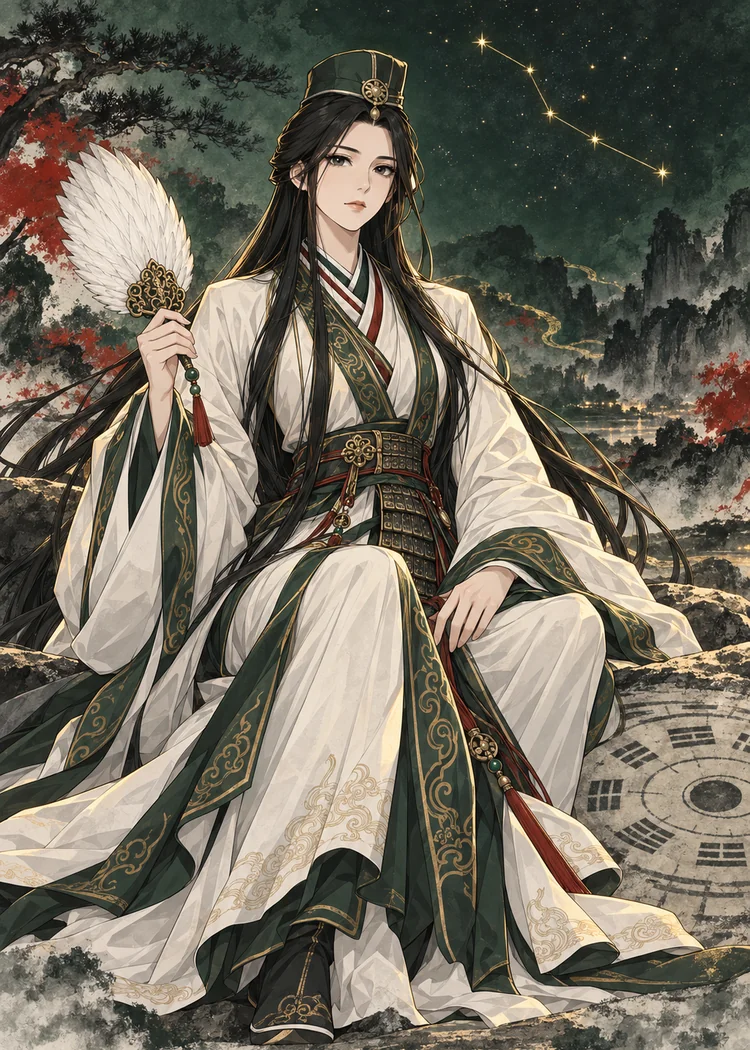
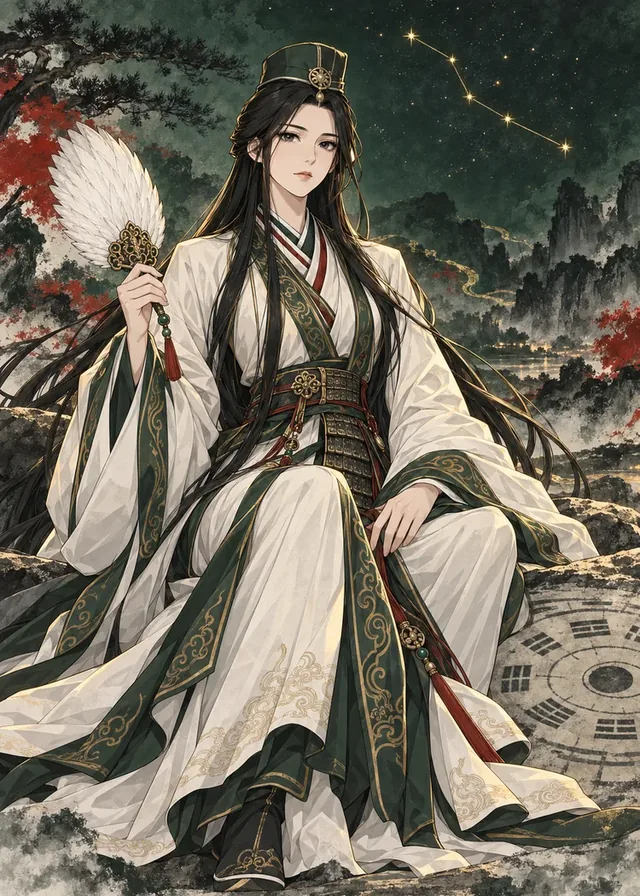
사이트 그림을 표시 크기에 맞춰 압축하고 첫 화면 전송량 줄이기

Changed region(s): [[0.2188, 0.2812, 0.25, 0.3125], [0.1875, 0.25, 0.2188, 0.2812]]

diff --git a/assets/slime-race/race.css b/assets/slime-race/race.css
@@ -23,7 +23,7 @@ a{color:#e6c98a}button,input{font:inherit}button{cursor:pointer}button:disabled{
 .sr-host{position:relative;isolation:isolate;width:110px;height:112px;flex:none}
 .sr-host::before{content:"";position:absolute;left:calc(50% - 7px);bottom:-20px;width:14px;height:29px;border-radius:3px;background:linear-gradient(90deg,#885730,#bd8c58 35%,#a37143 70%,#78502e);box-shadow:inset 1px 0 1px #d9ae77,2px 2px 2px #4a432e38;z-index:-2}
 .sr-host::after{content:"";position:absolute;left:13%;bottom:3px;width:74%;height:14px;border-radius:6px 5px 3px 3px;transform:rotate(-1deg);background:linear-gradient(#b48555,#80512f);box-shadow:inset 0 1px 1px #e0b47c,0 3px 3px #59452d4d;z-index:-1}
-.sr-art-plaque .sr-host::after{background:#9b6840 url('/assets/slime-race/art/clay/title-plaque.png') center 48%/180% 280% no-repeat}
+.sr-art-plaque .sr-host::after{background:#9b6840 url('/assets/slime-race/art/clay/title-plaque.webp') center 48%/180% 280% no-repeat}
 .sr-announcer img{width:110px;height:112px;object-fit:contain;flex:none;filter:drop-shadow(0 5px 3px #4d432640);align-self:end}
 .sr-speech{flex:1;min-width:0;padding:20px 13px;background:linear-gradient(#fffbea,#edd9b5);border-radius:32px;box-shadow:inset 0 2px 3px #fffef6,inset 0 -3px 5px #b59b713b,0 4px 3px #60513540;color:#62432c;font-size:18px;font-weight:400;text-align:center;line-height:1.3;overflow-wrap:break-word}
 .sr-speech::after{content:"";position:absolute;left:-9px;bottom:19px;width:16px;height:17px;background:#f6e8cb;transform:skewY(-30deg);border-radius:0 0 0 80%;z-index:-1}
@@ -35,11 +35,11 @@ a{color:#e6c98a}button,input{font:inherit}button{cursor:pointer}button:disabled{
 /* 9분할 테두리는 모서리의 조각·광택을 보존하고 가운데만 확장한다. */
 .sr-art-plaque .sr-title-sign,.sr-art-panel .sr-round,.sr-art-panel .sr-speech,.sr-art-button .sr-arena-controls button:not(.sr-primary),.sr-art-gold .sr-arena-controls .sr-primary{background:none;box-shadow:none}
 .sr-art-plaque .sr-title-sign::before,.sr-art-panel .sr-round::before,.sr-art-panel .sr-speech::before,.sr-art-button .sr-arena-controls button:not(.sr-primary)::before,.sr-art-gold .sr-arena-controls .sr-primary::before{content:"";position:absolute;inset:0;z-index:-1;pointer-events:none;border:20px solid transparent;border-image:var(--sr-art) var(--sr-slice,80) fill / var(--sr-border,20px) stretch}
-.sr-art-plaque .sr-title-sign::before{border:0;background:url('/assets/slime-race/art/clay/title-plaque.png') center/100% 100% no-repeat}
-.sr-title-sign{--sr-art:url('/assets/slime-race/art/clay/title-plaque.png');--sr-slice:50 125;--sr-border:20px 43px}
-.sr-round,.sr-speech{--sr-art:url('/assets/slime-race/art/clay/panel.png');--sr-slice:48;--sr-border:25px}
-.sr-arena-controls button{--sr-art:url('/assets/slime-race/art/clay/button.png');--sr-slice:36;--sr-border:22px}
-.sr-arena-controls .sr-primary{--sr-art:url('/assets/slime-race/art/clay/button-gold.png');--sr-slice:90 135;--sr-border:23px 35px}
+.sr-art-plaque .sr-title-sign::before{border:0;background:url('/assets/slime-race/art/clay/title-plaque.webp') center/100% 100% no-repeat}
+.sr-title-sign{--sr-art:url('/assets/slime-race/art/clay/title-plaque.webp');--sr-slice:50 125;--sr-border:20px 43px}
+.sr-round,.sr-speech{--sr-art:url('/assets/slime-race/art/clay/panel.webp');--sr-slice:48;--sr-border:25px}
+.sr-arena-controls button{--sr-art:url('/assets/slime-race/art/clay/button.webp');--sr-slice:36;--sr-border:22px}
+.sr-arena-controls .sr-primary{--sr-art:url('/assets/slime-race/art/clay/button-gold.webp');--sr-slice:90 135;--sr-border:23px 35px}
 .sr-feedback{position:absolute;z-index:2;bottom:84px;left:18px;right:18px;display:flex;justify-content:center;min-height:22px;pointer-events:none}
 .sr-feedback>*{pointer-events:auto}
 .sr-feedback .sr-message{margin:0!important;padding:4px 12px;background:#fff5dfed;color:#62432c;border-radius:12px;text-align:center;max-width:100%;line-height:1.4;box-shadow:0 2px 3px #4f4c2b26}
@@ -48,14 +48,14 @@ a{color:#e6c98a}button,input{font:inherit}button{cursor:pointer}button:disabled{
 .sr-feedback:has([data-public-error]:not([hidden])) [data-spectator-message]{display:none}
 .sr-result{position:absolute;isolation:isolate;top:174px;left:50%;transform:translateX(-50%);width:min(340px,86%);background:linear-gradient(#fff9e8,#ead5b2);border:0;border-radius:26px;text-align:center;padding:19px 23px;box-shadow:inset 0 2px 3px #fffef3,0 10px 24px #32452145;color:#65442d;z-index:1}
 .sr-art-panel .sr-result{background:none;box-shadow:0 10px 24px #32452135}
-.sr-art-panel .sr-result::before{content:"";position:absolute;inset:0;z-index:-1;border:24px solid transparent;border-image:url('/assets/slime-race/art/clay/panel.png') 48 fill / 24px stretch;pointer-events:none}
+.sr-art-panel .sr-result::before{content:"";position:absolute;inset:0;z-index:-1;border:24px solid transparent;border-image:url('/assets/slime-race/art/clay/panel.webp') 48 fill / 24px stretch;pointer-events:none}
 .sr-result h2{font-family:inherit;font-size:30px;font-weight:400;line-height:1.2;color:#654127;margin:6px 0!important;text-shadow:0 1px #fff7e3}
 .sr-result>small{display:block;font-size:13px;line-height:1.3;color:#87613e;letter-spacing:0}
 .sr-result p{font-size:14px;line-height:1.45}
 .sr-result ol{margin:10px 0 0;padding:8px 0 0;list-style:none;border-top:1px solid #bb99745c;display:flex;flex-wrap:wrap;justify-content:center;gap:3px 10px;font-size:13px;line-height:1.4}
 .sr-result button{position:relative;isolation:isolate;margin-top:10px;min-height:44px;border-radius:18px;padding:10px 22px;background:linear-gradient(#ffe59e,#edb94e);color:#68401e;font-family:inherit;font-size:15px;font-weight:400;line-height:1.4;box-shadow:inset 0 2px 2px #fff4c9,0 3px 3px #76523026}
 .sr-art-gold .sr-result button{background:none;box-shadow:none}
-.sr-art-gold .sr-result button::before{content:"";position:absolute;inset:0;z-index:-1;border:18px solid transparent;border-image:url('/assets/slime-race/art/clay/button-gold.png') 90 135 fill / 18px 27px stretch;pointer-events:none}
+.sr-art-gold .sr-result button::before{content:"";position:absolute;inset:0;z-index:-1;border:18px solid transparent;border-image:url('/assets/slime-race/art/clay/button-gold.webp') 90 135 fill / 18px 27px stretch;pointer-events:none}
 
 .sr-primary{border:0;border-radius:6px;background:#e6c98a;color:#271b2b;padding:12px 24px;min-height:46px;font-size:14px;font-weight:600;text-decoration:none;display:inline-flex;align-items:center;justify-content:center}.sr-text-button{background:none;border:0;padding:3px 0;color:#d7c098;text-decoration:underline;text-underline-offset:4px;font-size:12px;white-space:nowrap;min-height:32px}
 .gb-games{margin-top:30px}.gb-games-heading{display:flex;justify-content:space-between;align-items:center;gap:15px;margin-bottom:15px}.gb-games-heading h2{font-family:var(--font-display);font-size:23px;color:#f2dfb7;font-weight:500}.gb-games-heading span{font-size:12px;color:#b6a7c0}.gb-gamegrid{display:grid;grid-template-columns:1fr 1fr;gap:18px}.gb-game{position:relative;min-width:0;height:285px;border:1px solid #745740;border-radius:9px;overflow:hidden;background:#251e2c}.gb-game>img{position:absolute;inset:0;width:100%;height:100%;object-fit:cover}.gb-game::after{content:"";position:absolute;inset:0;background:linear-gradient(0deg,#0e0a16fa 1%,#15102055 55%,transparent);pointer-events:none}.gb-gamecopy{position:absolute;z-index:1;bottom:22px;left:23px;right:23px}.gb-gamecopy small{font-size:11px;color:#e6c98a;letter-spacing:.1em}.gb-gamecopy h3{font-family:var(--font-display);font-size:26px;color:#fff0d6;font-weight:600;margin:4px 0!important}.gb-gamecopy p{font-size:13px;color:#d7cbdc;padding-right:115px}.gb-gamecopy .gb-play{position:absolute;right:0;bottom:0;display:inline-flex;align-items:center;min-height:40px;background:#e6c98a;color:#261d2b;padding:8px 14px;border-radius:4px;text-decoration:none;font-size:12px}.gb-gamecover-link{position:absolute;inset:0;z-index:1}.gb-gamecopy{pointer-events:none}.gb-gamecopy a{pointer-events:auto}.gb-gamecover-link:focus-visible{outline-offset:-5px;outline-width:3px}.gb-foot{width:calc(100% - 64px);max-width:1116px;display:flex;align-items:center;justify-content:space-between;gap:16px;flex-wrap:wrap;margin:30px auto 0;padding:26px 0;border-top:1px solid #392a40;color:#9e90a9;font-size:12px}.gb-foot strong{font-family:var(--font-brand);font-size:12px;font-weight:400;letter-spacing:.14em;color:#c5b19b}.gb-foot a{color:#cbb89e;text-decoration:none}.gb-foot-links{display:flex;gap:16px;flex-wrap:wrap}.gb-copyright{flex-basis:100%;font-size:11px}

diff --git a/account/index.html b/account/index.html
@@ -84,7 +84,7 @@
 </section>
 <section id="member-panel" class="panel" aria-labelledby="member-title" hidden>
 <p class="step-label">내 계정</p><h2 id="member-title" tabindex="-1">반가워요</h2><p id="member-email" class="description"></p><p id="member-permission" class="notice"></p><section class="grain-wallet" aria-labelledby="grain-title" aria-busy="false" id="grain-wallet">
-<div class="grain-heading"><img src="/assets/currency/grain.png" width="48" height="48" alt=""><h3 id="grain-title">내 그레인</h3></div>
+<div class="grain-heading"><img src="/assets/currency/grain.webp" width="48" height="48" alt=""><h3 id="grain-title">내 그레인</h3></div>
 <p id="grain-status" class="description" role="status">잔액을 불러오고 있어요.</p>
 <div id="grain-content" hidden><p class="grain-balance"><strong id="grain-balance"></strong> <span>그레인</span></p><p class="description small">그레인은 이벤트와 커뮤니티 활동으로만 받는 무료 화폐예요. 돈으로 사거나 현금·상품으로 바꿀 수 없고, 다른 회원에게 줄 수 없어요.</p><p id="grain-attendance" class="notice success" role="status" hidden></p><p id="grain-eligibility" class="notice" hidden></p><button id="grain-verify" class="text-button" type="button" hidden>인증 메일 다시 받기</button><p class="grain-pending-total">적립 예정 <strong id="grain-pending-total"></strong> 그레인</p><p id="grain-pending-description" class="description small">글·댓글은 유지 조건을 충족하면 확정돼요. 확정 전 삭제·숨김되거나 보상 자격이 바뀌면 지급되지 않을 수 있어요.</p><ul id="grain-pending" class="grain-entries"></ul><p id="grain-pending-empty" class="description" hidden>적립 예정인 보상이 없어요.</p><h4>이용 내역</h4><ul id="grain-entries" class="grain-entries"></ul><p id="grain-empty" class="description" hidden>아직 이용 내역이 없어요.</p></div>
 <p id="grain-error" class="form-message" role="alert" hidden></p><button id="grain-retry" class="text-button" type="button" hidden>그레인 다시 불러오기</button>
@@ -96,7 +96,7 @@
 <div class="guest-return"><span>가입은 나중에 해도 괜찮아요.</span><a id="guest-link" href="https://gracekingames.com/">게임 둘러보기 <span aria-hidden="true">↗</span></a></div>
 </div>
 <section id="grain-policy" class="grain-policy" aria-labelledby="grain-policy-title">
-<div class="grain-heading"><img src="/assets/currency/grain.png" width="48" height="48" alt=""><h2 id="grain-policy-title">그레인 받는 방법</h2></div>
+<div class="grain-heading"><img src="/assets/currency/grain.webp" width="48" height="48" alt=""><h2 id="grain-policy-title">그레인 받는 방법</h2></div>
 <p class="description">그레인은 이벤트와 커뮤니티 활동으로만 받는 무료 화폐예요. 돈으로 사거나 현금·상품으로 바꿀 수 없고, 다른 회원에게 줄 수 없어요.</p>
 <p id="grain-policy-status" class="description" role="status">받는 방법을 불러오고 있어요.</p>
 <div id="grain-policy-content" hidden>

diff --git a/assets/community/community.js b/assets/community/community.js
@@ -22,7 +22,7 @@
           ['선을 그려 길을 이어요', '슬라임이 지나갈 길을 선으로 만들어 주세요. 게임 화면에 나오는 안내를 보며 한 걸음씩 시작하면 돼요.'],
           ['막히거나 오류를 만났다면', '화면이 멈추거나 예상과 다르게 움직인다면 비공개 버그 제보로 알려 주세요. 이용한 기기와 브라우저, 문제가 생긴 화면과 상황을 함께 적어 주시면 확인에 도움이 돼요.']
         ] },
-        { id: 'feedback', date: '2026-10-15', cover: '/assets/slime-front.png', title: '문제 신고와 소감을 보내는 방법', excerpt: '플레이하다 만난 문제나 떠오른 생각을 편지로 받습니다.', sections: [
+        { id: 'feedback', date: '2026-10-15', cover: '/assets/slime-front.webp', title: '문제 신고와 소감을 보내는 방법', excerpt: '플레이하다 만난 문제나 떠오른 생각을 편지로 받습니다.', sections: [
           ['로그인한 계정으로 비공개 제보해요', '비공개 버그 제보에서 알려진 문제를 먼저 확인해 주세요. 로그인한 계정으로 제보하면 본인은 제보 목록과 처리 상태를 볼 수 있어요. 원문은 운영자만 확인해요.'],
           ['제보 전에 해 볼 것', '화면을 새로고침하고, 다른 브라우저에서도 같은 문제가 생기는지 살펴봐 주세요. 비공개 버그 제보의 알려진 문제도 확인해 주세요.'],
           ['문제 설명에 적을 칸', ['게임 이름: 슬라임 라인', '어느 화면: 문제가 생긴 화면과 주소', '무엇을 했는지: 문제가 반복되는 순서', '기대한 결과와 실제 결과: 각각 어떻게 달랐는지', '기기와 브라우저: 기기 이름, 운영체제, 브라우저 이름과 버전']],
@@ -315,7 +315,7 @@
   titleArt.width = gameId === 'slimeline' ? 2171 : 2048;
   titleArt.height = gameId === 'slimeline' ? 724 : 768;
   titleArt.alt = game.name;
-  titleArt.src = `/assets/${gameId}/title.png`;
+  titleArt.src = `/assets/${gameId}/title.webp`;
   titleArt.hidden = false;
   byId('hero-links').hidden = false;
   byId('hero-home').href = studioPath(game.home);
@@ -451,7 +451,7 @@
     const emptyArt = byId('empty-art');
     emptyArt.hidden = !isBoardEmpty;
     if (isBoardEmpty) {
-      if (gameId === 'slimeline') { byId('empty-image').src = '/assets/slime-front.png'; byId('empty-image').hidden = false; }
+      if (gameId === 'slimeline') { byId('empty-image').src = '/assets/slime-front.webp'; byId('empty-image').hidden = false; }
       else {
         emptyArt.className = `empty-art tile-${boardId}`;
       }

diff --git a/index.html b/index.html
@@ -30,14 +30,14 @@
 <header class="gb-nav">
 <a class="gb-logo" href="#top" aria-label="그레이스킨게임즈 처음으로"><img src="/assets/favicon.svg" width="36" height="36" alt="">GRACEKIN</a>
 <nav class="gb-navlinks" aria-label="주 메뉴"><a href="#games">모든 게임</a><a href="#letter">의견 보내기</a></nav>
-<div class="account-header" data-account-header aria-busy="false"><a class="account-header-link" data-account-link href="/account/"><span class="account-header-name" data-account-label>내 계정</span><span class="account-header-grain" data-account-grain hidden><img src="/assets/currency/grain.png" width="24" height="24" alt=""><span data-account-balance></span></span></a><button class="account-header-retry" data-account-retry type="button" hidden>다시 확인</button></div>
+<div class="account-header" data-account-header aria-busy="false"><a class="account-header-link" data-account-link href="/account/"><span class="account-header-name" data-account-label>내 계정</span><span class="account-header-grain" data-account-grain hidden><img src="/assets/currency/grain.webp" width="24" height="24" alt=""><span data-account-balance></span></span></a><button class="account-header-retry" data-account-retry type="button" hidden>다시 확인</button></div>
 </header>
 <main class="gb-main" id="top">
 <section class="gb-stage" aria-label="두 게임 무대">
 <a class="gb-panel gb-left" href="/games/slimeline/" data-umami-event="homepage-slimeline" data-umami-event-from="stage" aria-label="슬라임 라인 홈페이지 보기">
-<img class="gb-bg" src="/assets/slime-bg.jpg" alt="">
+<img class="gb-bg" src="/assets/slime-bg.webp" alt="">
 <div class="gb-shade"></div>
-<img class="gb-slime" src="/assets/slime-front.png" alt="">
+<img class="gb-slime" src="/assets/slime-front.webp" alt="">
 <div class="gb-label">
 <div class="gb-kicker">STAGE I · <b>선 그리기 퍼즐</b></div>
 <div class="gb-title">슬라임 라인</div>
@@ -45,7 +45,7 @@
 </div>
 </a>
 <a class="gb-panel gb-right" href="/games/gyeongguk/" data-umami-event="homepage-gyeongguk" data-umami-event-from="stage" aria-label="경국지계 홈페이지 보기">
-<img class="gb-bg" src="/assets/gyeongguk-key.jpg" alt="">
+<img class="gb-bg" src="/assets/gyeongguk-key.webp" alt="">
 <div class="gb-shade"></div>
 <div class="gb-label">
 <div class="gb-kicker">STAGE II · <b>카드 대전 TCG</b></div>

diff --git a/games/slimeline/index.html b/games/slimeline/index.html
@@ -38,7 +38,7 @@
       <a href="/community/?game=slimeline" data-umami-event="community-slimeline">커뮤니티</a>
 
     </nav>
-<div class="account-header" data-account-header aria-busy="false"><a class="account-header-link" data-account-link href="/account/?game=slimeline"><span class="account-header-name" data-account-label>로그인</span><span class="account-header-grain" data-account-grain hidden><img src="/assets/currency/grain.png" width="24" height="24" alt=""><span data-account-balance></span></span></a><button class="account-header-retry" data-account-retry type="button" hidden>다시 확인</button></div>
+<div class="account-header" data-account-header aria-busy="false"><a class="account-header-link" data-account-link href="/account/?game=slimeline"><span class="account-header-name" data-account-label>로그인</span><span class="account-header-grain" data-account-grain hidden><img src="/assets/currency/grain.webp" width="24" height="24" alt=""><span data-account-balance></span></span></a><button class="account-header-retry" data-account-retry type="button" hidden>다시 확인</button></div>
     <span class="header-flourish" aria-hidden="true"><svg><use href="#sprout"></use></svg><span></span></span>
   </header>
 
@@ -47,7 +47,7 @@
       <img class="hero-art" src="/assets/slimeline/hero.webp" alt="달빛 아래 등불이 켜진 마을과 돌다리를 산책하는 분홍 슬라임과 친구들" width="1736" height="906" fetchpriority="high">
       <div class="hero-shade" aria-hidden="true"></div>
       <div class="hero-copy">
-        <h1 id="game-title"><img src="/assets/slimeline/title.png" alt="슬라임 라인" width="2171" height="724"></h1>
+        <h1 id="game-title"><img src="/assets/slimeline/title.webp" alt="슬라임 라인" width="2171" height="724"></h1>
         <p class="hero-tagline">오늘은, 조금 느리게</p>
         <div class="hero-actions">
           <span class="button button-store is-pending" data-store="google-play" role="status" aria-disabled="true"><span>Google Play 출시 준비 중</span></span>

diff --git a/games/gyeongguk/index.html b/games/gyeongguk/index.html
@@ -34,13 +34,13 @@
       <a href="/community/?game=gyeongguk" data-umami-event="community-gyeongguk" data-umami-event-from="header">커뮤니티</a>
 
     </nav>
-<div class="account-header" data-account-header aria-busy="false"><a class="account-header-link" data-account-link href="/account/?game=gyeongguk"><span class="account-header-name" data-account-label>로그인</span><span class="account-header-grain" data-account-grain hidden><img src="/assets/currency/grain.png" width="24" height="24" alt=""><span data-account-balance></span></span></a><button class="account-header-retry" data-account-retry type="button" hidden>다시 확인</button></div>
+<div class="account-header" data-account-header aria-busy="false"><a class="account-header-link" data-account-link href="/account/?game=gyeongguk"><span class="account-header-name" data-account-label>로그인</span><span class="account-header-grain" data-account-grain hidden><img src="/assets/currency/grain.webp" width="24" height="24" alt=""><span data-account-balance></span></span></a><button class="account-header-retry" data-account-retry type="button" hidden>다시 확인</button></div>
     <a class="studio-link" href="/" aria-label="그레이스킨게임즈 대문으로">Gracekin Games</a>
   </header>
   <main id="main">
     <section class="hero" id="top" aria-labelledby="hero-title">
       <div class="hero-copy">
-        <h1 id="hero-title"><img class="title-art" src="/assets/gyeongguk/title.png" alt="경국지계" width="500" height="172"></h1>
+        <h1 id="hero-title"><img class="title-art" src="/assets/gyeongguk/title.webp" alt="경국지계" width="500" height="172"></h1>
         <p class="hero-subtitle">한 장의 계략, 천하를 뒤집다</p>
         <p class="hero-description">계략이 흐르는 곳에, 다시 쓰는 천하가 있다.<br>지금, 당신의 한 수가 세상의 판도를 바꾼다.</p>
         <div class="hero-actions">

diff --git a/community/index.html b/community/index.html
@@ -23,7 +23,7 @@
 <a class="studio-link studio-home-link" href="https://gracekingames.com/"><img src="/assets/favicon.svg" width="28" height="28" alt=""><span>GRACEKIN GAMES</span></a>
 <nav id="game-switcher" class="game-switcher" aria-label="게임 전환"></nav>
 <a id="home-link" class="back-home" href="https://gracekingames.com/">게임 홈페이지</a>
-<div class="account-header" data-account-header aria-busy="false"><a class="account-header-link" data-account-link href="/account/"><span class="account-header-name" data-account-label>로그인</span><span class="account-header-grain" data-account-grain hidden><img src="/assets/currency/grain.png" width="24" height="24" alt=""><span data-account-balance></span></span></a><button class="account-header-retry" data-account-retry type="button" hidden>다시 확인</button></div>
+<div class="account-header" data-account-header aria-busy="false"><a class="account-header-link" data-account-link href="/account/"><span class="account-header-name" data-account-label>로그인</span><span class="account-header-grain" data-account-grain hidden><img src="/assets/currency/grain.webp" width="24" height="24" alt=""><span data-account-balance></span></span></a><button class="account-header-retry" data-account-retry type="button" hidden>다시 확인</button></div>
 </header>
 <main id="main-content">
 <section class="community-hero" aria-labelledby="community-title">

diff --git a/assets/community/community.css b/assets/community/community.css
@@ -127,7 +127,7 @@ textarea:focus-visible,select:focus-visible{outline:2px solid var(--accent);outl
 :root[data-game=gyeongguk] body .board-tabs a[aria-current=page]::after{height:3px;background:#7fa8c6}
 .board-tile{display:block;flex-shrink:0;width:28px;height:28px;border:1px solid #bbb0a2}
 /* 그림 요청은 경국지계 요소에만 연결해 다른 게임의 자원을 받지 않는다. */
-:root[data-game=gyeongguk] body :is(.board-tile,.empty-art){background-image:url('/assets/gyeongguk/tiles.webp');background-size:300% 200%;background-repeat:no-repeat}
+:root[data-game=gyeongguk] body :is(.board-tile,.empty-art){background-image:url('/assets/gyeongguk/tiles-small.webp');background-size:300% 200%;background-repeat:no-repeat}
 .tile-free{background-position:0 0;object-position:0 0}
 .tile-deck{background-position:50% 0;object-position:50% 0}
 .tile-strategy{background-position:100% 0;object-position:100% 0}

diff --git a/assets/slime-race/race.js b/assets/slime-race/race.js
@@ -484,7 +484,7 @@ function makePortrait(id){const c=document.createElement('canvas');c.width=144;c
     state.raf=requestAnimationFrame(tick);
   }
   async function loadAssets() {
-    const paths=[...names.flatMap((_,i)=>[['slime'+i,'slime'+i+'.png'],['acc'+i,'acc'+i+'.png']]),['backdrop','clay/backdrop.webp'],['lane','clay/lane.webp'],['plaque','clay/title-plaque.png'],['panel','clay/panel.png'],['button','clay/button.png'],['gold','clay/button-gold.png']];
+    const paths=[...names.flatMap((_,i)=>[['slime'+i,'slime'+i+'.png'],['acc'+i,'acc'+i+'.png']]),['backdrop','clay/backdrop.webp'],['lane','clay/lane.webp'],['plaque','clay/title-plaque.webp'],['panel','clay/panel.webp'],['button','clay/button.webp'],['gold','clay/button-gold.webp']];
     let failures=0;
     await Promise.all(paths.map(([key,file])=>new Promise(resolve=>{
       const image=new Image();image.decoding='async';

diff --git a/assets/community/host.js b/assets/community/host.js
@@ -8,7 +8,7 @@
     document.documentElement.dataset.game = game;
     document.querySelector('meta[name="theme-color"]').content = game === 'gyeongguk' ? '#f8f6f1' : game === 'slimeline' ? '#101728' : '#17131f';
     if (game !== 'picker') {
-      for (const name of ['hero.webp', 'title.png']) {
+      for (const name of ['hero.webp', 'title.webp']) {
         const preload = document.createElement('link');
         preload.rel = 'preload';
         preload.as = 'image';

diff --git a/scripts/optimize_site_art.py b/scripts/optimize_site_art.py
@@ -1,0 +1,75 @@
+#!/usr/bin/env python3
+"""보관한 원본에서 사이트 그림을 다시 변환한다(Pillow 필요).
+
+첫 실행은 원본을 저장소 밖에 복사한다. 재실행은 그 보관본을 사용하므로
+손실 압축이 누적되지 않는다. 경로 변경과 옛 파일 삭제는 별도로 검수한다.
+"""
+from __future__ import annotations
+
+import argparse
+import json
+from pathlib import Path
+import shutil
+
+from PIL import Image, ImageOps
+
+ROOT = Path(__file__).resolve().parents[1]
+ORIGINALS = Path('/Users/app/orca/archives/gracekin-games/art-originals-20261107')
+# 스프라이트의 3×2 비율과 레이스의 자르기·테두리 좌표는 그대로 유지한다.
+ASSETS = [
+    ('currency/grain.png', 'currency/grain.webp', 96, 90),
+    ('slimeline/title.png', 'slimeline/title.webp', 1034, 90),
+    ('gyeongguk/title.png', 'gyeongguk/title.webp', 1166, 90),
+    ('slime-front.png', 'slime-front.webp', 560, 88),
+    ('slime-bg.jpg', 'slime-bg.webp', None, 82),
+    ('gyeongguk-key.jpg', 'gyeongguk-key.webp', None, 82),
+    ('slimeline/hero.webp', 'slimeline/hero.webp', None, 85),
+    ('gyeongguk/hero.webp', 'gyeongguk/hero.webp', None, 85),
+    ('slimeline/tiles.webp', 'slimeline/tiles.webp', None, 82),
+    ('gyeongguk/tiles.webp', 'gyeongguk/tiles.webp', None, 80),
+    ('gyeongguk/tiles.webp', 'gyeongguk/tiles-small.webp', 792, 82),
+    ('gyeongguk/card-lubu.webp', 'gyeongguk/card-lubu.webp', 640, 82),
+    ('gyeongguk/card-diaochan.webp', 'gyeongguk/card-diaochan.webp', 640, 82),
+    ('gyeongguk/card-zhugeliang.webp', 'gyeongguk/card-zhugeliang.webp', 640, 82),
+    ('slime-race/art/owl-host.png', 'slime-race/art/owl-host.webp', 224, 88),
+    ('slime-race/art/clay/backdrop.webp', 'slime-race/art/clay/backdrop.webp', None, 85),
+    ('slime-race/art/clay/lane.webp', 'slime-race/art/clay/lane.webp', None, 85),
+    ('slime-race/art/clay/title-plaque.png', 'slime-race/art/clay/title-plaque.webp', None, 85),
+    ('slime-race/art/clay/panel.png', 'slime-race/art/clay/panel.webp', None, 85),
+    ('slime-race/art/clay/button.png', 'slime-race/art/clay/button.webp', None, 85),
+    ('slime-race/art/clay/button-gold.png', 'slime-race/art/clay/button-gold.webp', None, 85),
+]
+
+
+def main():
+    parser = argparse.ArgumentParser(description=__doc__)
+    parser.add_argument('--originals', type=Path, default=ORIGINALS, help='저장소 밖 원본 보관 폴더')
+    parser.add_argument('--report', type=Path, help='변환 결과 JSON 저장 경로')
+    args = parser.parse_args()
+    originals = args.originals.resolve()
+    if originals.is_relative_to(ROOT):
+        parser.error('원본은 저장소 밖에 보관해야 합니다.')
+    report = []
+    for old, new, width, quality in ASSETS:
+        source = originals / 'assets' / old
+        current, target = ROOT / 'assets' / old, ROOT / 'assets' / new
+        if not source.exists():
+            source.parent.mkdir(parents=True, exist_ok=True)
+            shutil.copy2(current, source)
+        with Image.open(source) as original:
+            image = ImageOps.exif_transpose(original)
+            before_size = image.size
+            if width and image.width > width:
+                image = image.resize((width, round(image.height * width / image.width)), Image.Resampling.LANCZOS)
+            image.save(target, 'WEBP', quality=quality, method=6, exact=True)
+            report.append({'before': str(current.relative_to(ROOT)), 'after': str(target.relative_to(ROOT)),
+                           'before_bytes': source.stat().st_size, 'after_bytes': target.stat().st_size,
+                           'before_size': before_size, 'after_size': image.size, 'quality': quality})
+    if args.report:
+        args.report.write_text(json.dumps(report, ensure_ascii=False, indent=2) + '\n')
+    for row in report:
+        print(f"{row['after']}: {row['before_bytes']:,} → {row['after_bytes']:,} 바이트")
+
+
+if __name__ == '__main__':
+    main()
